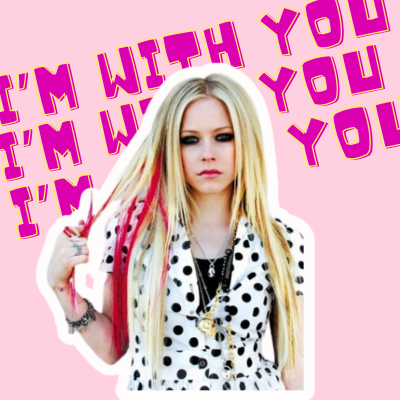
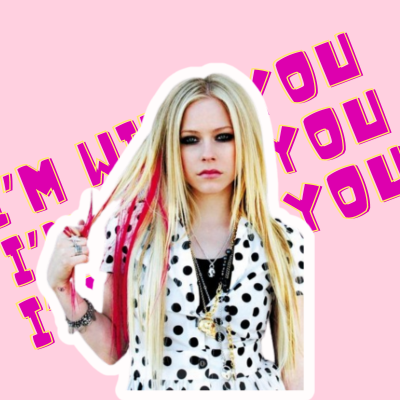
edit file

Changed region(s): [[0.0, 0.0, 1.0, 0.87], [0.21, 0.69, 0.24, 0.72]]

diff --git a/roche_mauijane/mauijane.css b/roche_mauijane/mauijane.css
@@ -6,7 +6,7 @@ body {
 
 .header {
     font-style: italic;
-    background-image: url(./header\ \(1\).png);
+    background-image: url(./header\ \(2\).png);
  
     text-align: center;
     padding: 20px 0;
